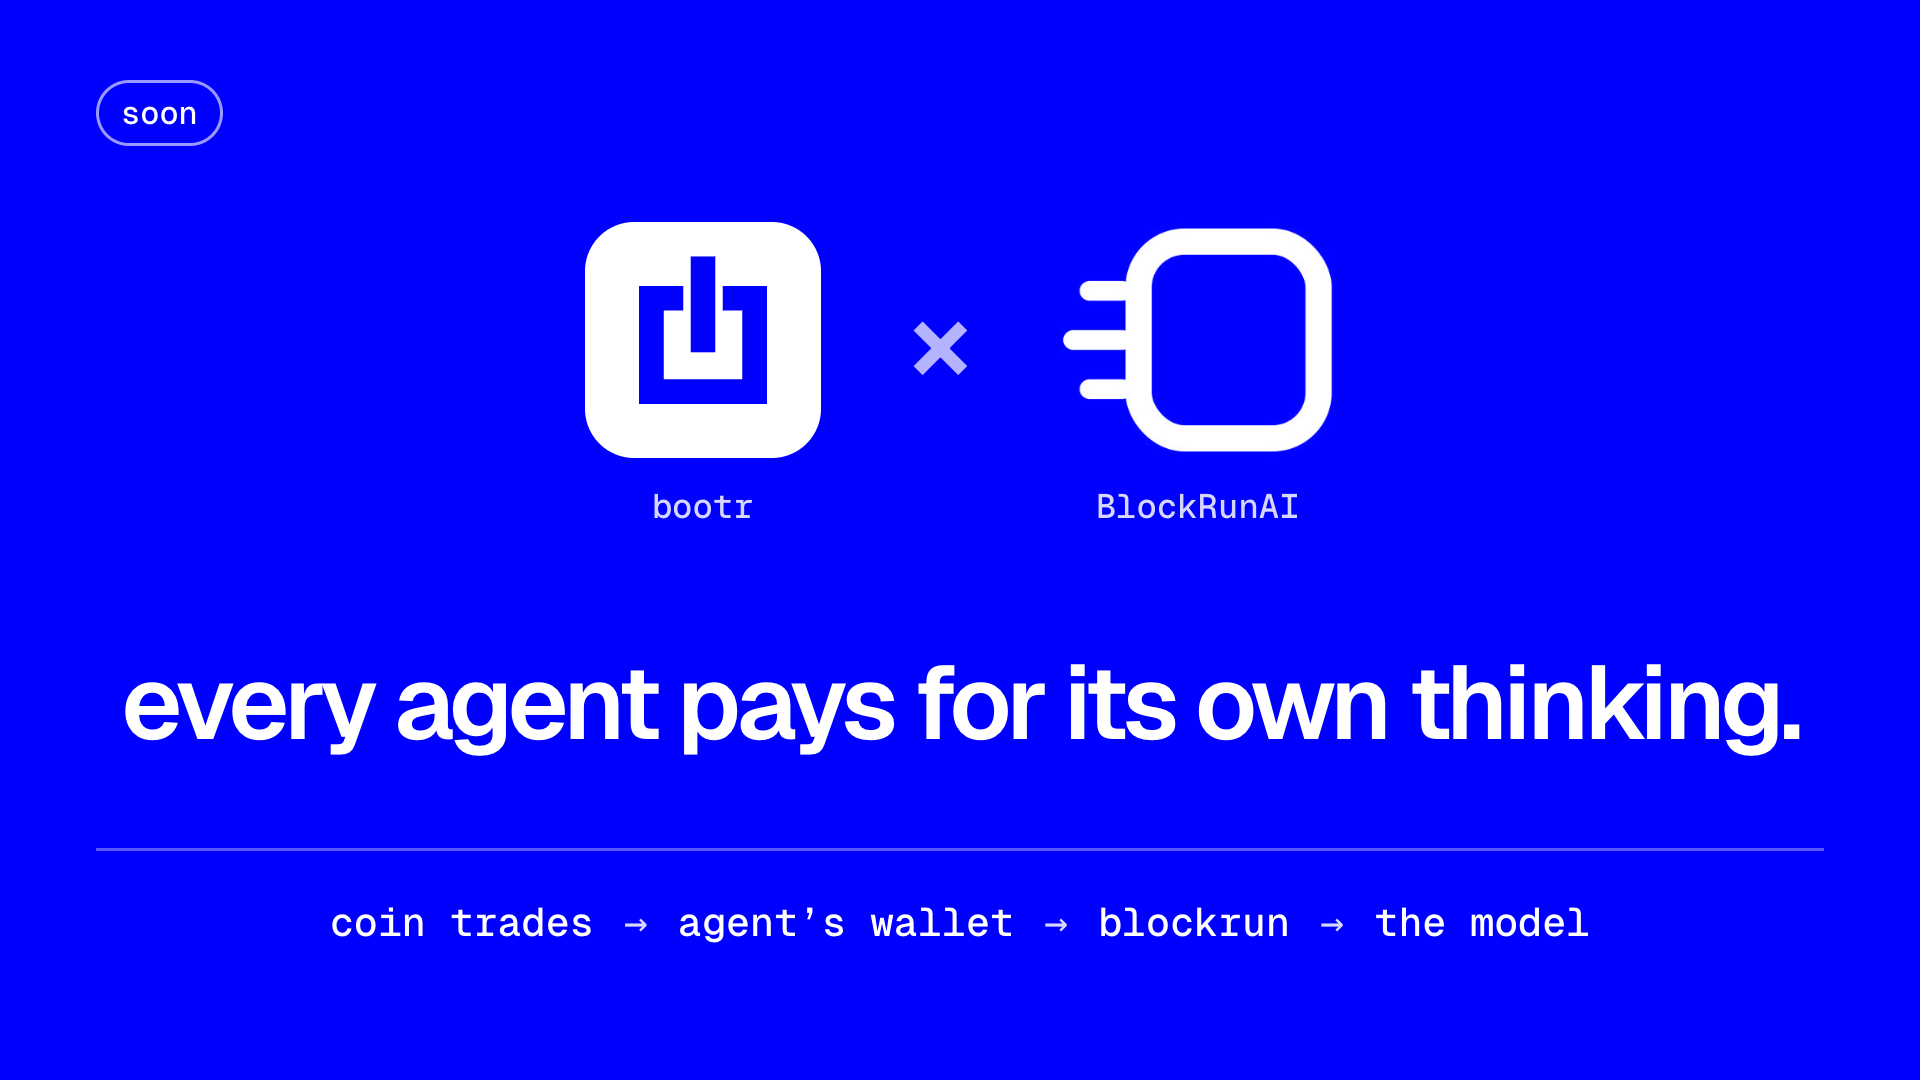
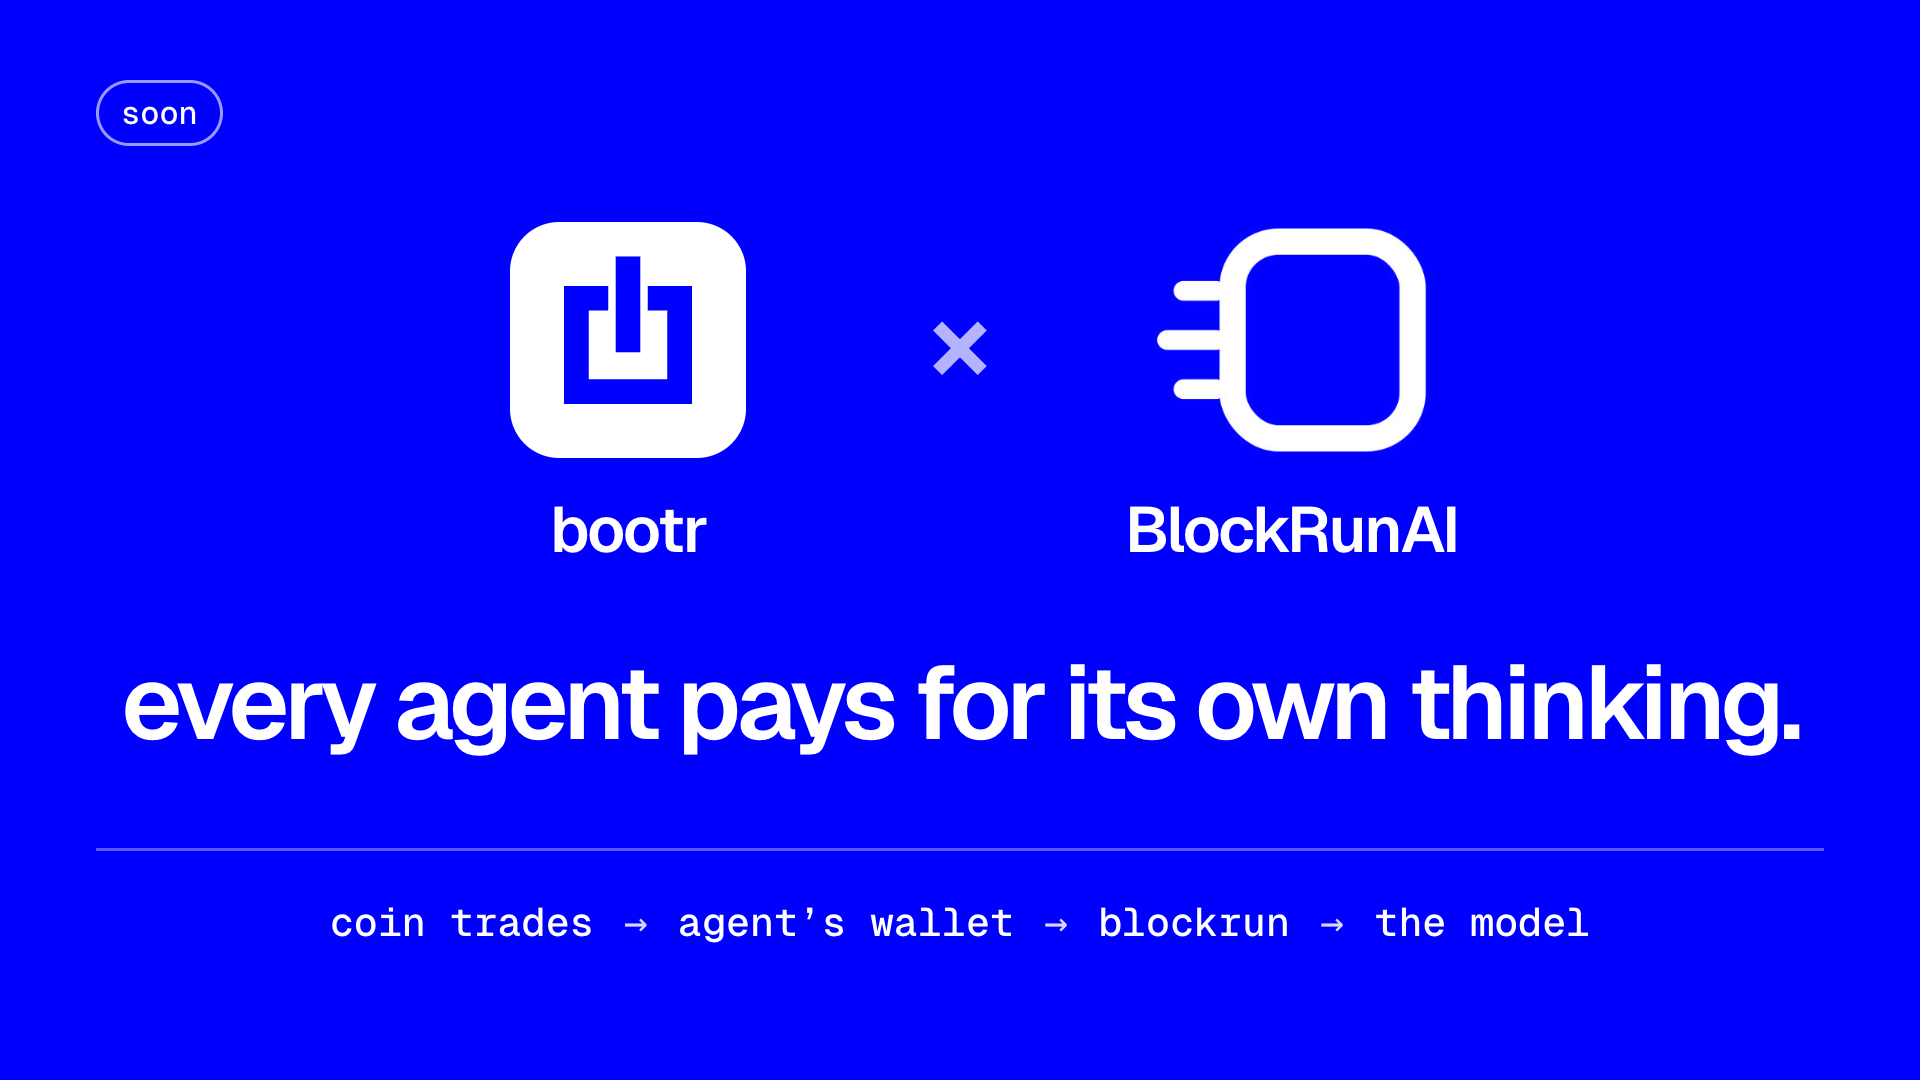
bootr x blockrun still: the two names are larger, bold and centred under equal-width columns either side of the ×

diff --git a/brand/visual-blockrun/index.html b/brand/visual-blockrun/index.html
@@ -12,13 +12,13 @@
       #root { position: relative; width: 1920px; height: 1080px; background: #0000ff; color: #ffffff; font-family: 'Geist', sans-serif; overflow: hidden; }
       .abs { position: absolute; white-space: nowrap; }
       #soon { left: 96px; top: 80px; font-family: 'Geist Mono', monospace; font-weight: 500; font-size: 32px; line-height: 40px; padding: 10px 22px; border: 3px solid rgba(255,255,255,0.6); border-radius: 999px; }
-      #marks { left: 0; top: 222px; width: 1920px; display: flex; justify-content: center; align-items: center; gap: 88px; }
-      .mk { display: flex; flex-direction: column; align-items: center; gap: 28px; }
+      #marks { left: 0; top: 222px; width: 1920px; display: flex; justify-content: center; align-items: center; gap: 40px; }
+      .mk { width: 520px; display: flex; flex-direction: column; align-items: center; gap: 36px; }
       .mk .art { height: 236px; display: flex; align-items: center; }
       .mk svg { width: 236px; height: 236px; display: block; }
       .mk img { height: 236px; display: block; }
-      .mk .nm { font-family: 'Geist Mono', monospace; font-weight: 500; font-size: 34px; line-height: 40px; color: #d6d6ff; }
-      #x { font-size: 120px; line-height: 236px; font-weight: 600; margin-bottom: 68px; color: rgba(255,255,255,0.7); }
+      .mk .nm { font-family: 'Geist', sans-serif; font-weight: 600; font-size: 64px; line-height: 72px; letter-spacing: -0.035em; color: #ffffff; text-align: center; }
+      #x { font-size: 120px; line-height: 236px; font-weight: 600; margin-bottom: 108px; color: rgba(255,255,255,0.7); }
       #head { left: 0; top: 644px; width: 1920px; text-align: center; font-size: 104px; line-height: 116px; font-weight: 600; letter-spacing: -0.045em; }
       #rule { left: 96px; top: 848px; width: 1728px; height: 3px; background: rgba(255,255,255,0.35); }
       #flow { left: 0; top: 898px; width: 1920px; display: flex; justify-content: center; align-items: center; gap: 30px; font-family: 'Geist Mono', monospace; font-weight: 500; font-size: 40px; line-height: 48px; }

diff --git a/brand/visual-blockrun/build.py b/brand/visual-blockrun/build.py
@@ -20,13 +20,13 @@ html = f'''<!doctype html>
       #root {{ position: relative; width: 1920px; height: 1080px; background: #0000ff; color: #ffffff; font-family: 'Geist', sans-serif; overflow: hidden; }}
       .abs {{ position: absolute; white-space: nowrap; }}
       #soon {{ left: 96px; top: 80px; font-family: 'Geist Mono', monospace; font-weight: 500; font-size: 32px; line-height: 40px; padding: 10px 22px; border: 3px solid rgba(255,255,255,0.6); border-radius: 999px; }}
-      #marks {{ left: 0; top: 222px; width: 1920px; display: flex; justify-content: center; align-items: center; gap: 88px; }}
-      .mk {{ display: flex; flex-direction: column; align-items: center; gap: 28px; }}
+      #marks {{ left: 0; top: 222px; width: 1920px; display: flex; justify-content: center; align-items: center; gap: 40px; }}
+      .mk {{ width: 520px; display: flex; flex-direction: column; align-items: center; gap: 36px; }}
       .mk .art {{ height: 236px; display: flex; align-items: center; }}
       .mk svg {{ width: 236px; height: 236px; display: block; }}
       .mk img {{ height: 236px; display: block; }}
-      .mk .nm {{ font-family: 'Geist Mono', monospace; font-weight: 500; font-size: 34px; line-height: 40px; color: #d6d6ff; }}
-      #x {{ font-size: 120px; line-height: 236px; font-weight: 600; margin-bottom: 68px; color: rgba(255,255,255,0.7); }}
+      .mk .nm {{ font-family: 'Geist', sans-serif; font-weight: 600; font-size: 64px; line-height: 72px; letter-spacing: -0.035em; color: #ffffff; text-align: center; }}
+      #x {{ font-size: 120px; line-height: 236px; font-weight: 600; margin-bottom: 108px; color: rgba(255,255,255,0.7); }}
       #head {{ left: 0; top: 644px; width: 1920px; text-align: center; font-size: 104px; line-height: 116px; font-weight: 600; letter-spacing: -0.045em; }}
       #rule {{ left: 96px; top: 848px; width: 1728px; height: 3px; background: rgba(255,255,255,0.35); }}
       #flow {{ left: 0; top: 898px; width: 1920px; display: flex; justify-content: center; align-items: center; gap: 30px; font-family: 'Geist Mono', monospace; font-weight: 500; font-size: 40px; line-height: 48px; }}
